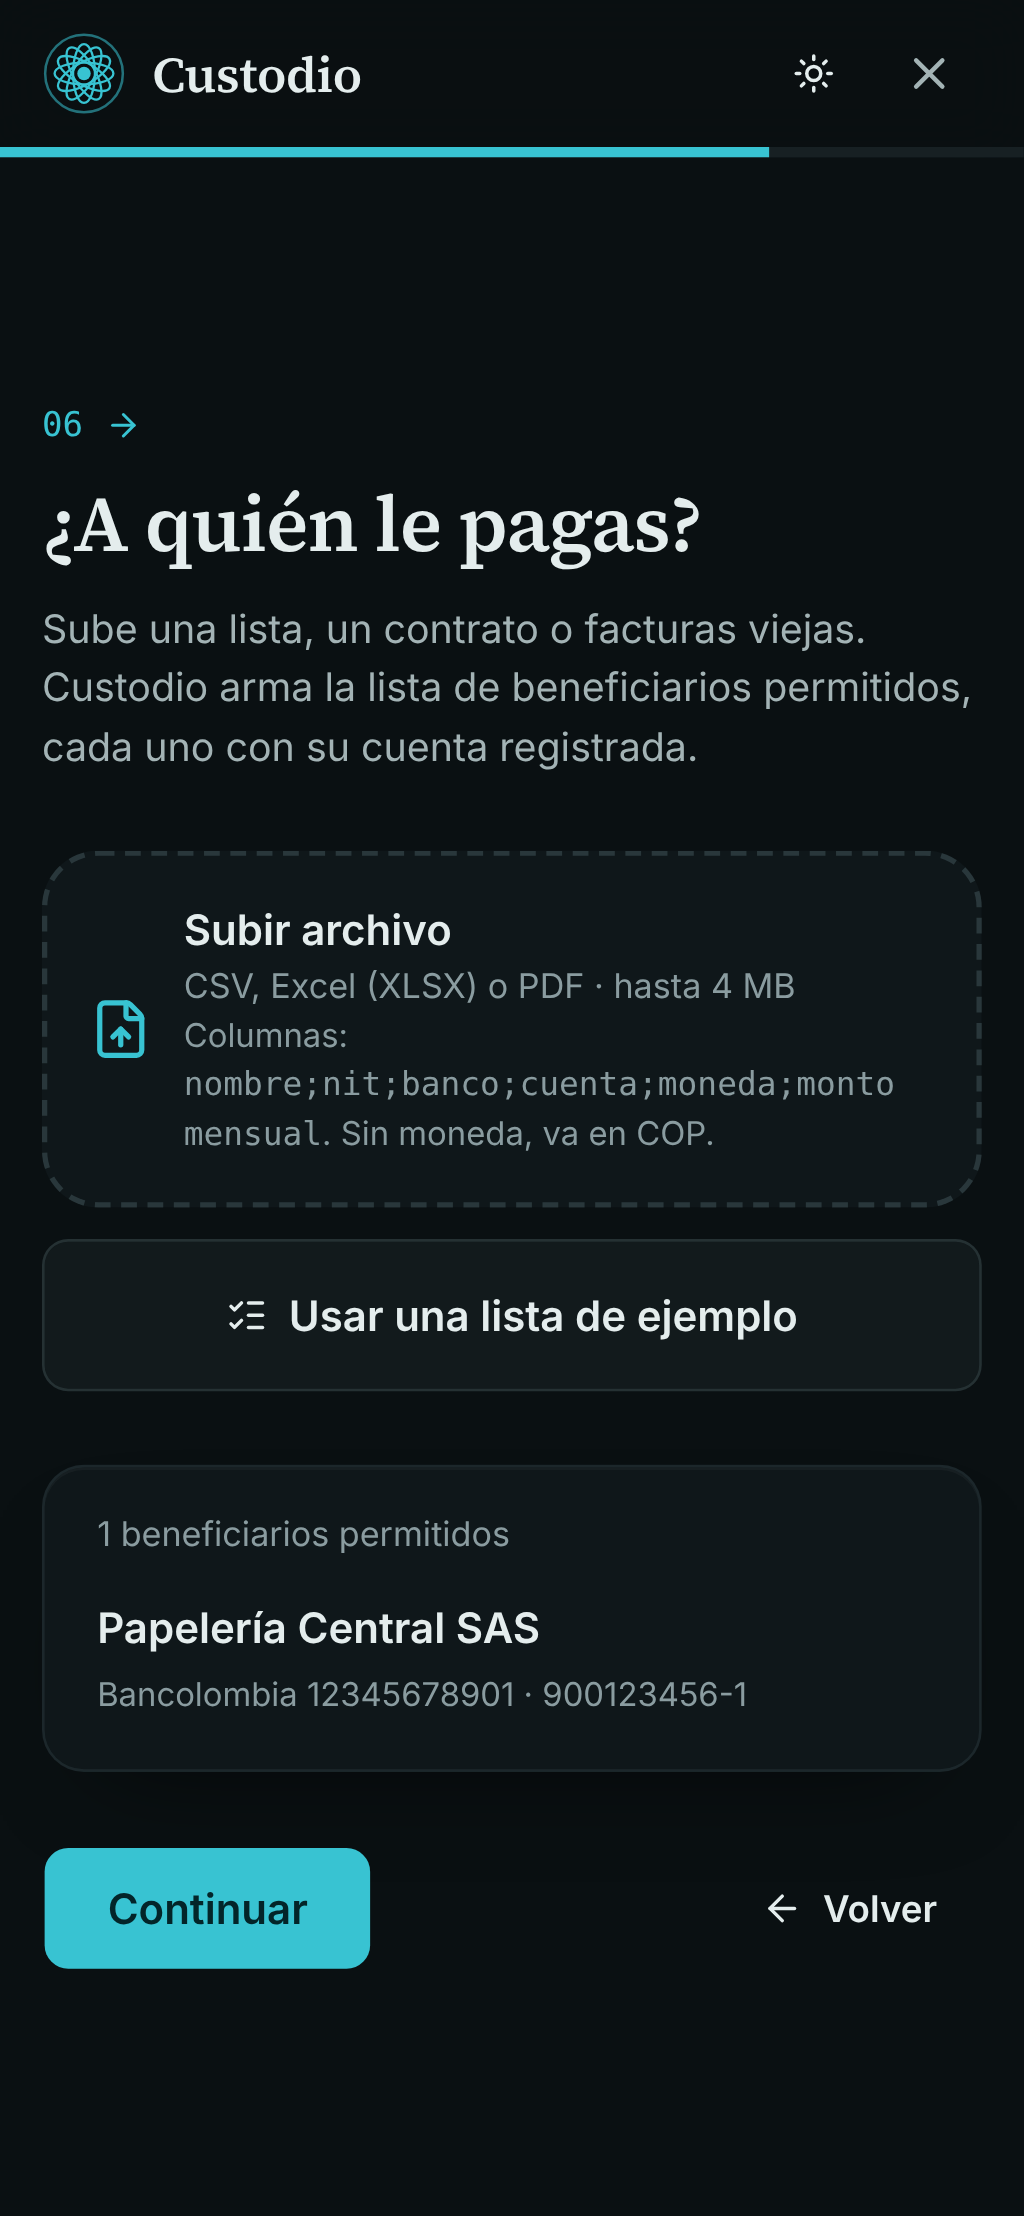
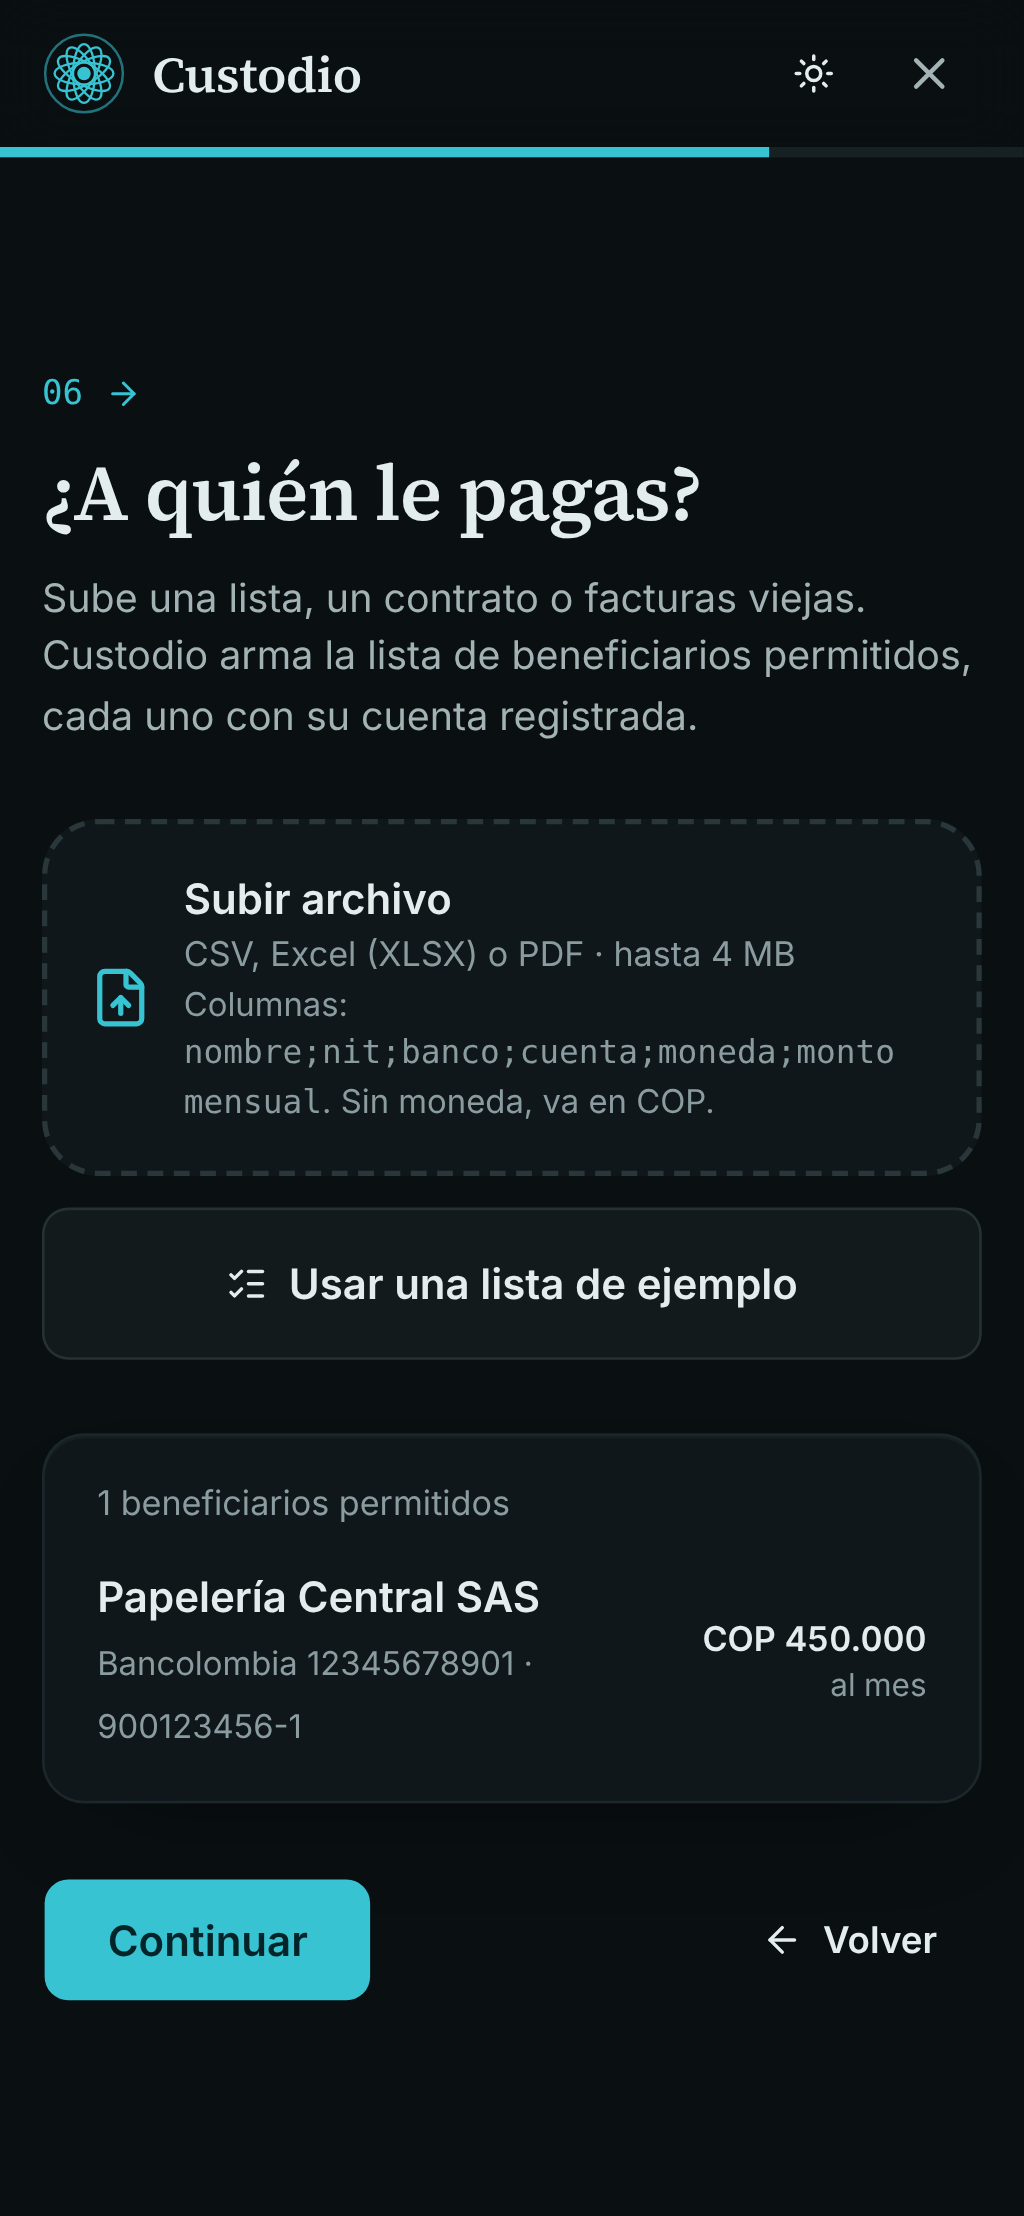
web: reuse an unused blank workspace after a reload, catch more blanks in suggested rules, never leave the CSV transfer id blank; e2e it

diff --git a/apps/web/e2e/colombia.e2e.ts b/apps/web/e2e/colombia.e2e.ts
@@ -1,4 +1,5 @@
 import { expect, test, type Page } from "@playwright/test";
+import { readFile } from "node:fs/promises";
 import path from "node:path";
 import { watch } from "./problems";
 
@@ -11,7 +12,7 @@ import { watch } from "./problems";
 const SHOTS = path.resolve(__dirname, "../../../docs/lanes/reports/L18b");
 const TEMPLATE = [
   "nombre;nit;banco;cuenta;moneda;monto mensual",
-  "Papelería Central SAS;900123456-1;Bancolombia;123-456789-01;;",
+  "Papelería Central SAS;900123456-1;Bancolombia;123-456789-01;;450000",
 ].join("\n");
 
 function invoice(lines: Record<string, string>): string {
@@ -83,11 +84,17 @@ test("a Colombian company sets up in COP from the template and its COP invoice i
     await expect(page.getByRole("main")).not.toContainText("Tu analista de cuentas por pagar");
   });
 
-  await test.step("perfil, COP y reglas con un ejemplo completo", async () => {
-    await page.getByLabel("Nombre de la empresa").fill("Papelería El Trigal");
-    await page.getByRole("button", { name: "Continuar" }).click();
-    await page.getByRole("button", { name: "Se ve bien" }).click();
-    await expect(page.getByRole("heading", { level: 1, name: "País, moneda y saldo" })).toBeVisible();
+  await test.step("perfil, COP y reglas con un ejemplo completo, aunque la página se recargue a mitad", async () => {
+    const startProfile = async () => {
+      await page.getByLabel("Nombre de la empresa").fill("Papelería El Trigal");
+      await page.getByRole("button", { name: "Continuar" }).click();
+      await page.getByRole("button", { name: "Se ve bien" }).click();
+      await expect(page.getByRole("heading", { level: 1, name: "País, moneda y saldo" })).toBeVisible();
+    };
+    await startProfile();
+    // A reload (a deploy, a closed laptop) must not leave a second workspace behind when the set-up ends.
+    await page.reload();
+    await startProfile();
     await page.getByLabel("País").selectOption("CO");
     await page.getByLabel("Moneda base").selectOption("COP");
     await page.getByRole("button", { name: "Continuar" }).click();
@@ -125,7 +132,13 @@ test("a Colombian company sets up in COP from the template and its COP invoice i
     const summary = await (await page.request.get("/api/v1/workspaces/current", { headers })).json();
     expect(summary).toMatchObject({ company_name: "Papelería El Trigal", base_currency: "COP", mode: "blank" });
     const policy = await (await page.request.get("/api/v1/policy", { headers })).json();
-    expect(policy.beneficiaries).toEqual([expect.objectContaining({ name: "Papelería Central SAS", currency: "COP" })]);
+    expect(policy.beneficiaries).toEqual([
+      expect.objectContaining({
+        name: "Papelería Central SAS",
+        currency: "COP",
+        agreement: expect.objectContaining({ currency: "COP", amount: 450000 }),
+      }),
+    ]);
     const ledger: { kind: string; payload: { company?: { country: string } } }[] = await (
       await page.request.get("/api/v1/ledger", { headers })
     ).json();
@@ -141,6 +154,9 @@ test("a Colombian company sets up in COP from the template and its COP invoice i
     expect(["paid_auto", "pending_approval"]).toContain(item.decision.status);
     const r8 = item.decision.rules.find((rule: { rule_id: string }) => rule.rule_id === "R8");
     expect(r8.outcome).not.toBe("hold");
+    // The agreement is in COP like the invoice: R6 compares them instead of escalating over the currency.
+    const r6 = item.decision.rules.find((rule: { rule_id: string }) => rule.rule_id === "R6");
+    expect(r6.outcome).toBe("pass");
     await page.waitForLoadState("networkidle");
     await shot("panel");
   });
@@ -163,6 +179,21 @@ test("a Colombian company sets up in COP from the template and its COP invoice i
     // R3 (allowed beneficiary) is what stops it: the supplier is not on the list.
     expect(unknown?.rules.find((rule) => rule.rule_id === "R3")?.outcome).toBe("escalate");
     await page.keyboard.press("Escape");
+  });
+
+  await test.step("el CSV nunca deja vacío el id de transferencia", async () => {
+    const download = page.waitForEvent("download");
+    await page
+      .getByRole("region", { name: "Facturas", exact: true })
+      .getByRole("button", { name: "Exportar CSV" })
+      .click();
+    const csv = await readFile((await (await download).path()) ?? "", "utf8");
+    const [, ...rows] = csv
+      .replace(/^\uFEFF/, "")
+      .trimEnd()
+      .split("\r\n");
+    expect(rows).toHaveLength(2);
+    for (const row of rows) expect(row.split(",").at(-1)).not.toBe("");
   });
 
   expect(problems.list, problems.list.join("\n")).toEqual([]);

diff --git a/apps/web/src/lib/api/hooks.ts b/apps/web/src/lib/api/hooks.ts
@@ -5,6 +5,7 @@ import { useApi } from "@/components/providers/api-provider";
 import { useHydrated } from "@/lib/hydration";
 import type {
   ApprovalInput,
+  CustodioApi,
   ChallengeInput,
   InvoiceInput,
   OnboardingRequest,
@@ -209,6 +210,16 @@ export function useImportSuppliers() {
   });
 }
 
+/** A blank workspace no company was set up in yet and nothing arrived to: the onboarding can use it as is. */
+async function isUnusedBlank(api: CustodioApi): Promise<boolean> {
+  try {
+    const summary = await api.getWorkspace();
+    return summary.mode === "blank" && summary.policy_version === 1 && summary.metrics.total === 0 && summary.pending_invoices === 0;
+  } catch {
+    return false; // no workspace yet, or it is gone: make one
+  }
+}
+
 /**
  * The new company gets a blank workspace of its own (the visitor's demo keeps its invoices out of it); the browser
  * switches to it before the API sets it up, and back to the one it had if the API refuses the company. A blank
@@ -220,7 +231,8 @@ export function useCompleteOnboarding(store: WorkspaceStore = browserWorkspaceSt
   return useMutation({
     mutationFn: async (request: OnboardingRequest) => {
       const previous = { workspace_id: store.read(), api_key: store.readApiKey() };
-      const fresh = previous.workspace_id !== null && isFreshBlank(previous.workspace_id);
+      const fresh =
+        (previous.workspace_id !== null && isFreshBlank(previous.workspace_id)) || (await isUnusedBlank(api));
       if (!fresh) store.write(await api.createWorkspace("blank"));
       try {
         const result = await api.completeOnboarding(request);

diff --git a/apps/web/src/components/onboarding/state.ts b/apps/web/src/components/onboarding/state.ts
@@ -92,7 +92,8 @@ export function normalizeWebsite(text: string): string | null {
   return /^https?:\/\//i.test(trimmed) ? trimmed : `https://${trimmed}`;
 }
 
-const BLANK_TO_FILL = /\[[^\]]*\]/;
+// Blanks a model may leave for the person to fill: [monto], {monto}, <monto>, ___ or XXX.
+const BLANK_TO_FILL = /\[[^\]]*\]|\{[^}]*\}|<[^>]*>|_{3,}|\bX{3,}\b/;
 const WHOLE = new Intl.NumberFormat("es-CO", { maximumFractionDigits: 0 });
 
 /** A complete first rule set in the company's currency, for when the proposed one is missing or has blanks. */

diff --git a/apps/api/tests/ai/test_profile.py b/apps/api/tests/ai/test_profile.py
@@ -121,3 +121,10 @@ def test_complete_suggested_rules_are_kept(fake_llm: FakeLLM) -> None:
     assert (
         profile_company("Taller Ruiz", None, {}).suggested_rules_text == "Nada sobre 3.000.000 de pesos sin aprobación."
     )
+
+
+@pytest.mark.parametrize("blank", ["{monto}", "<monto>", "____", "XXX"])
+def test_other_blanks_to_fill_are_dropped_too(fake_llm: FakeLLM, blank: str) -> None:
+    fake_llm.reply(profile_reply(suggested_rules_text=f"Nada sobre {blank} pesos sin aprobación."))
+
+    assert profile_company("Taller Ruiz", None, {}).suggested_rules_text is None

diff --git a/apps/api/custodio/ai/profile.py b/apps/api/custodio/ai/profile.py
@@ -20,7 +20,7 @@ from custodio.contracts import CompanyProfile, Model
 
 _MAX_FETCHES = 5
 _MAX_PAGE_TOKENS = 12000
-_BLANK = re.compile(r"\[[^\]]*\]")
+_BLANK = re.compile(r"\[[^\]]*\]|\{[^}]*\}|<[^>]*>|_{3,}|\bX{3,}\b")  # [monto], {monto}, <monto>, ___, XXX
 _MAX_SUPPLIER_CATEGORIES = 8
 _COUNTRY = re.compile(r"[A-Z]{2}")
 _CURRENCY = re.compile(r"[A-Z]{3}")
